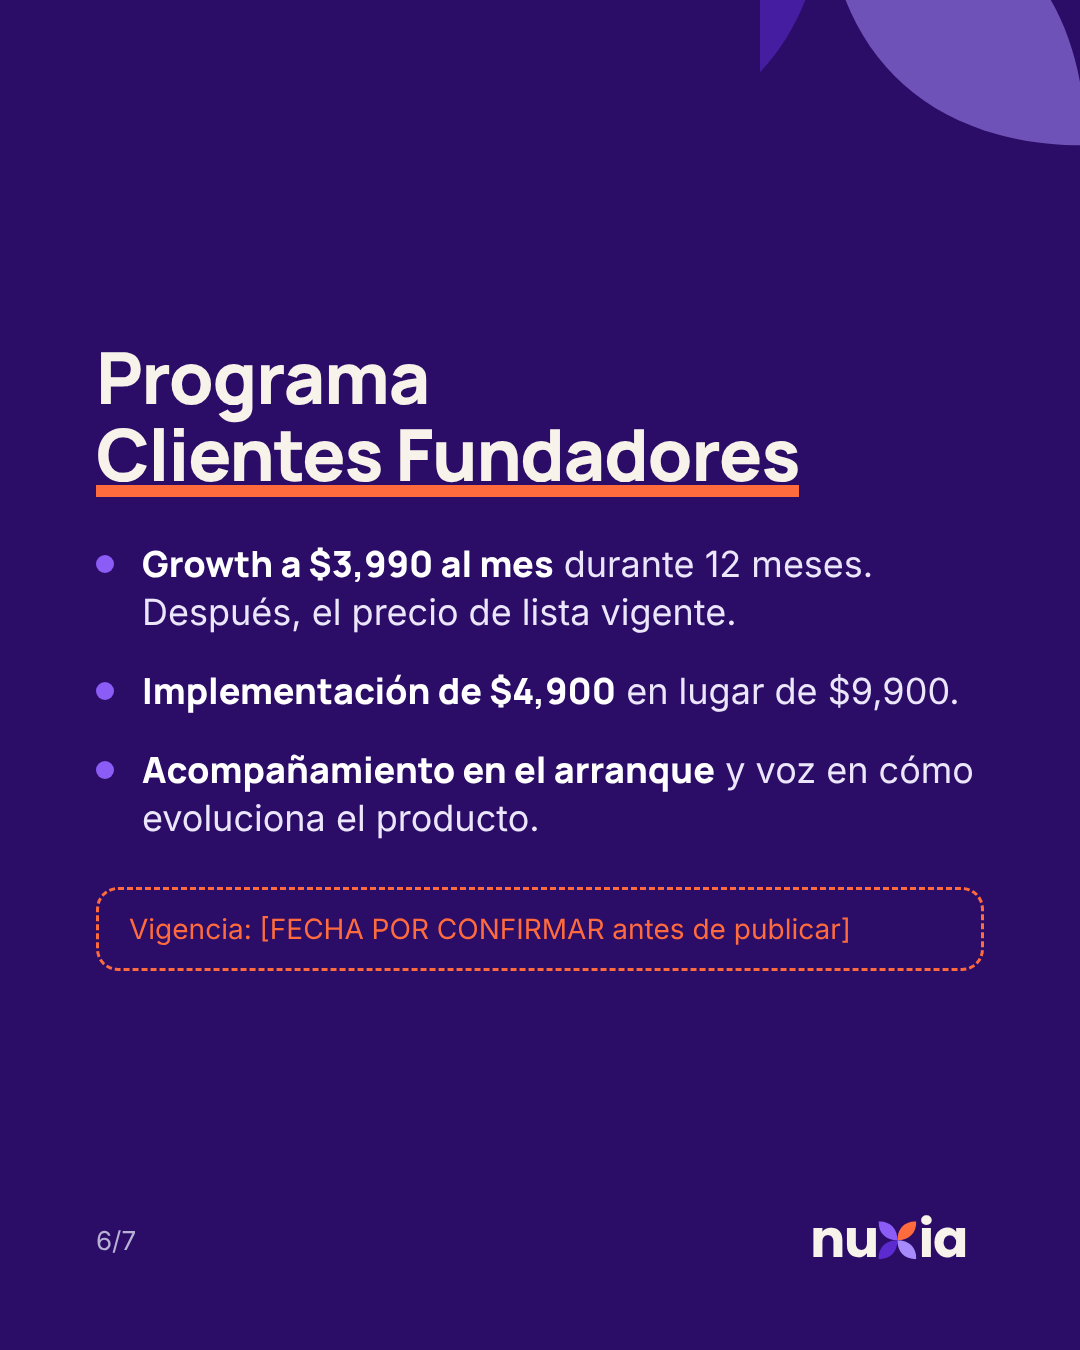
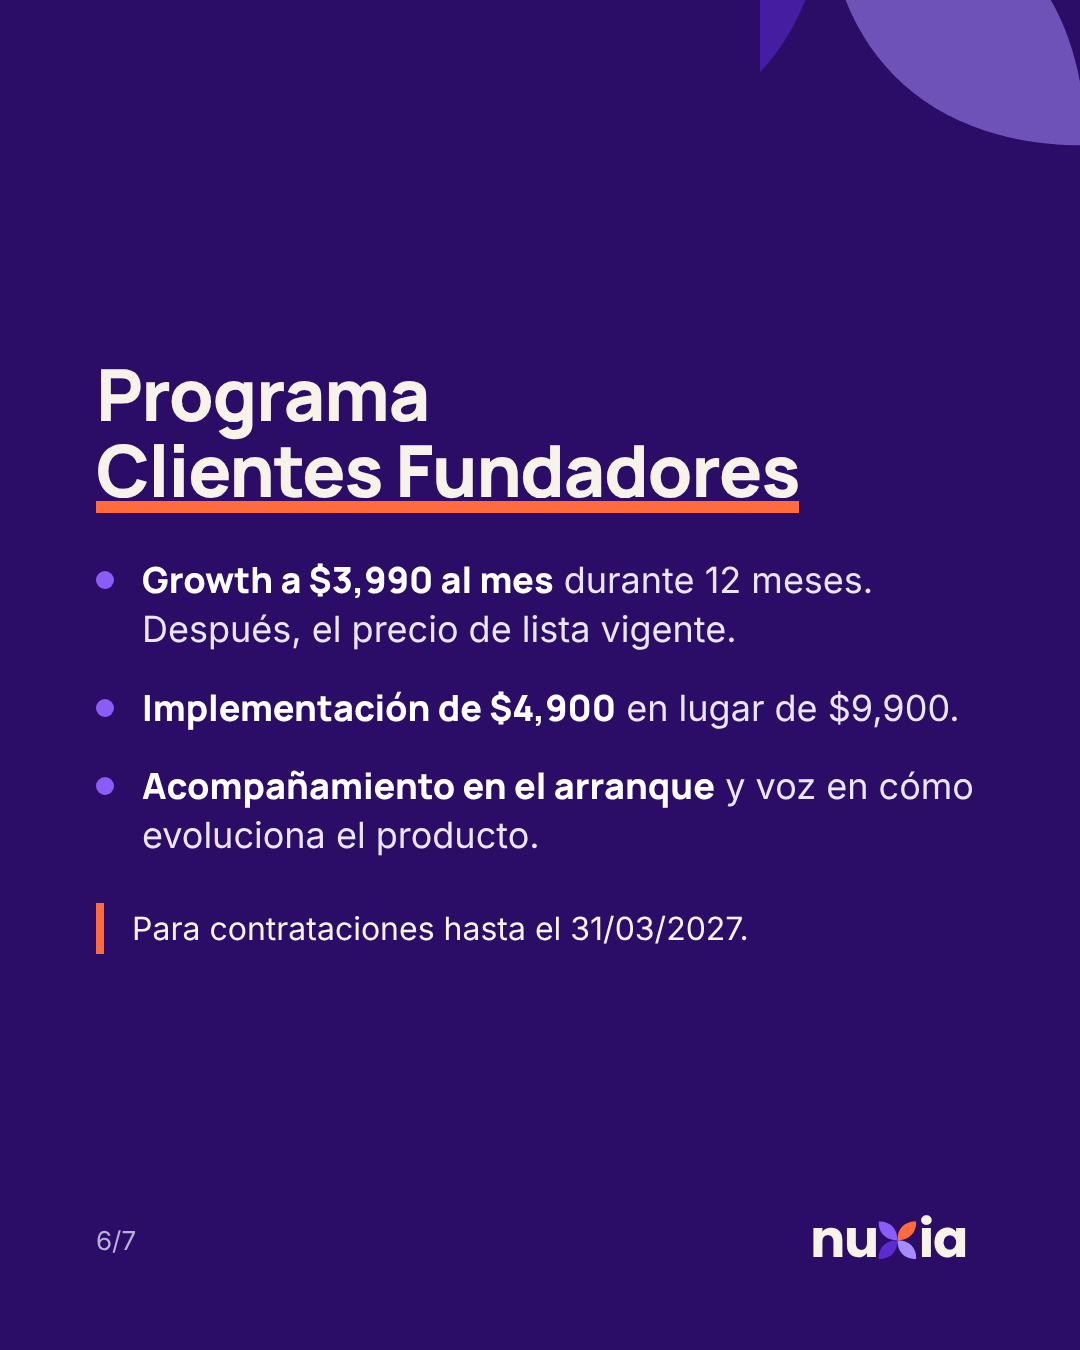
Set Fundadores deadline to 31/03/2027 in NUXIA carousel
Claude-Session: https://claude.ai/code/session_01RpdhzdgHMRmNgYoTxhaPEJ

Changed region(s): [[0.0917, 0.2489, 0.9167, 0.6533], [0.0917, 0.6533, 0.7944, 0.7156]]

diff --git a/assets/banners/nuxia-sales-agent-carrusel/carrusel.html b/assets/banners/nuxia-sales-agent-carrusel/carrusel.html
@@ -280,11 +280,11 @@
       }
       .pend {
         margin-top: 44px;
-        border: 3px dashed var(--naranja);
-        border-radius: 22px;
-        padding: 22px 30px;
-        font-size: 28px;
-        color: var(--naranja);
+        align-self: flex-start;
+        border-left: 8px solid var(--naranja);
+        padding: 6px 0 6px 28px;
+        font-size: 32px;
+        color: #f8f3ea;
       }
       .cta {
         align-self: flex-start;
@@ -508,7 +508,7 @@
           ><span><b>Acompañamiento en el arranque</b> y voz en cómo evoluciona el producto.</span>
         </div>
       </div>
-      <div class="pend">Vigencia: [FECHA POR CONFIRMAR antes de publicar]</div>
+      <div class="pend">Para contrataciones hasta el 31/03/2027.</div>
       <div class="foot">
         <span>6/7</span
         ><svg class="logo" viewBox="0 0 560 170" style="--a: #8b5cf6; --c: #5b2bcf; --d: #a78bfa">

diff --git a/assets/banners/nuxia-sales-agent-carrusel/texto-publicacion.md b/assets/banners/nuxia-sales-agent-carrusel/texto-publicacion.md
@@ -32,6 +32,7 @@ Los planes tienen precio público y van desde $1,990 al mes (IVA incluido). Desl
 
 ## Antes de publicar
 
-- [ ] Confirmar la fecha de vigencia de Fundadores y del precio de lanzamiento, y reemplazar el recuadro de la diapositiva 6.
+- [x] Fecha de Fundadores: 31/03/2027 (diapositiva 6).
+- [ ] Confirmar si el precio de lanzamiento de Starter y Business también vence el 31/03/2027.
 - [ ] Que el sitio y la infografía digan la misma fecha.
 - [ ] El enlace del perfil abre WhatsApp con el mensaje «vengo de Instagram».
